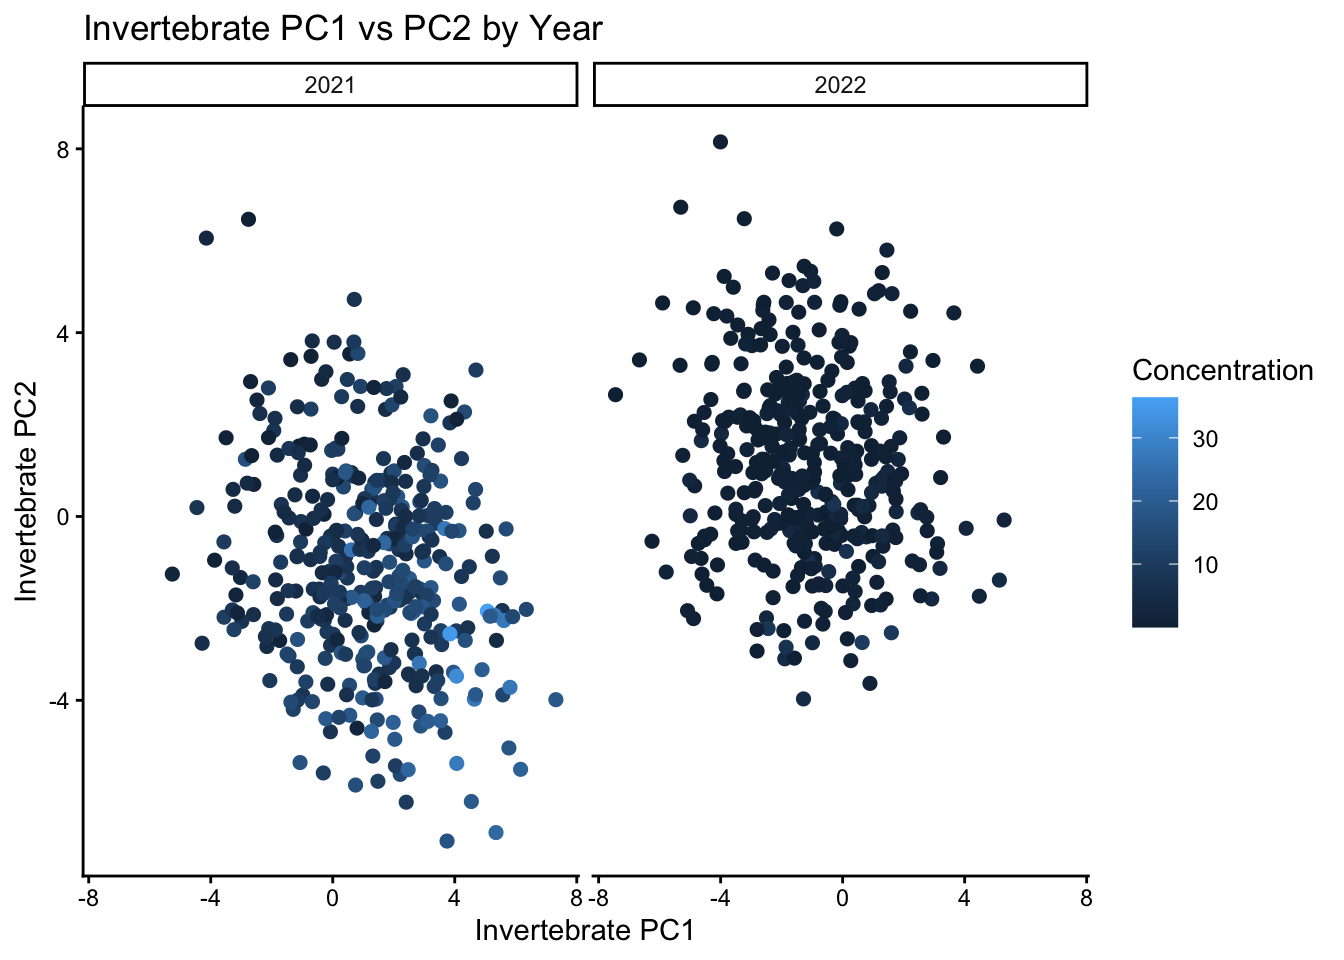
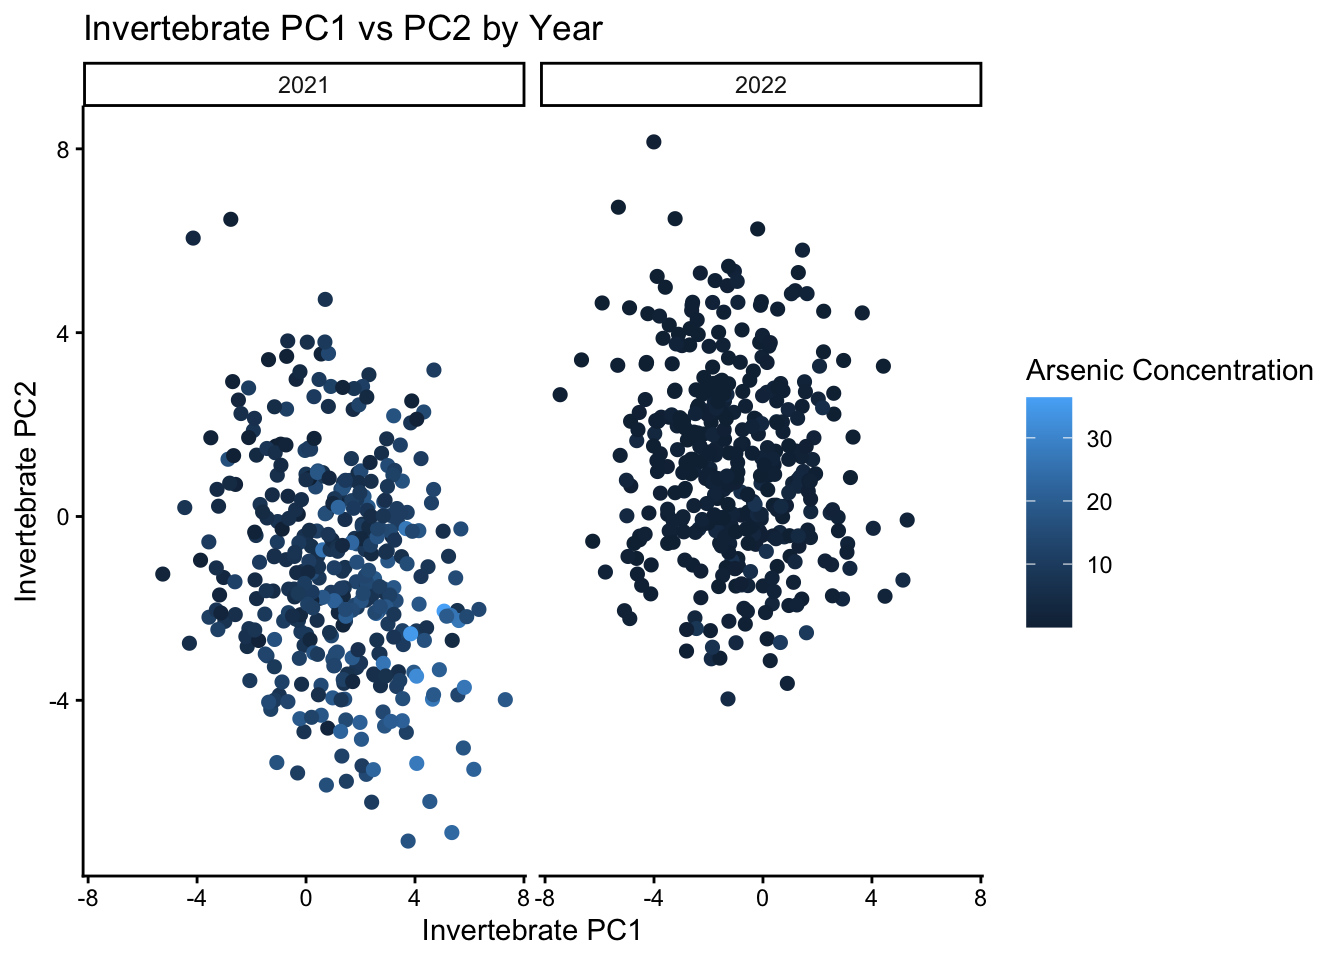
BIOL343_Week4/.DS_Store   BIOL343_Week4/.capture/errors.jsonl   BIOL343_Week4/.capture/events.jsonl  BIOL343_Week4/.capture/snaps/Group_3_CC3.Rmd.20261002-194455-d13f68.snap   BIOL343_Week4/.capture/snaps/Group_3_CC3.Rmd.20261002-194459-4cca44.snap  BIOL343_Week4/.capture/snaps/Group_3_CC3.Rmd.20261

diff --git a/BIOL343_Week4/Group_3_CC3.html b/BIOL343_Week4/Group_3_CC3.html
@@ -123,19 +123,17 @@ pre > code.sourceCode > span > a:first-child::before { text-decoration: underlin
 <section id="group-members" class="level2">
 <h2 class="anchored" data-anchor-id="group-members">Group Members</h2>
 <div class="cell">
-<div class="code-copy-outer-scaffold"><div class="sourceCode cell-code" id="cb1"><pre class="sourceCode r code-with-copy"><code class="sourceCode r"><span id="cb1-1"><a href="#cb1-1" aria-hidden="true" tabindex="-1"></a><span class="co"># Name - Queen's Student Number</span></span>
+<div class="code-copy-outer-scaffold"><div class="sourceCode cell-code" id="cb1"><pre class="sourceCode r code-with-copy"><code class="sourceCode r"><span id="cb1-1"><a href="#cb1-1" aria-hidden="true" tabindex="-1"></a><span class="co"># 1. Ziadie Diebel - 20463388</span></span>
 <span id="cb1-2"><a href="#cb1-2" aria-hidden="true" tabindex="-1"></a></span>
-<span id="cb1-3"><a href="#cb1-3" aria-hidden="true" tabindex="-1"></a><span class="co"># 1. Ziadie Diebel - 20463388</span></span>
+<span id="cb1-3"><a href="#cb1-3" aria-hidden="true" tabindex="-1"></a><span class="co"># 2. Name - Queen's Student Number</span></span>
 <span id="cb1-4"><a href="#cb1-4" aria-hidden="true" tabindex="-1"></a></span>
-<span id="cb1-5"><a href="#cb1-5" aria-hidden="true" tabindex="-1"></a><span class="co"># 2. Name - Queen's Student Number</span></span>
+<span id="cb1-5"><a href="#cb1-5" aria-hidden="true" tabindex="-1"></a><span class="co"># 3. Name - Queen's Student Number</span></span>
 <span id="cb1-6"><a href="#cb1-6" aria-hidden="true" tabindex="-1"></a></span>
-<span id="cb1-7"><a href="#cb1-7" aria-hidden="true" tabindex="-1"></a><span class="co"># 3. Name - Queen's Student Number</span></span>
+<span id="cb1-7"><a href="#cb1-7" aria-hidden="true" tabindex="-1"></a><span class="co"># 4. Name - Queen's Student Number</span></span>
 <span id="cb1-8"><a href="#cb1-8" aria-hidden="true" tabindex="-1"></a></span>
-<span id="cb1-9"><a href="#cb1-9" aria-hidden="true" tabindex="-1"></a><span class="co"># 4. Name - Queen's Student Number</span></span>
-<span id="cb1-10"><a href="#cb1-10" aria-hidden="true" tabindex="-1"></a></span>
-<span id="cb1-11"><a href="#cb1-11" aria-hidden="true" tabindex="-1"></a><span class="co"># 5. Name - Queen's Student Number</span></span></code></pre></div><button title="Copy to Clipboard" class="code-copy-button"><i class="bi"></i></button></div>
+<span id="cb1-9"><a href="#cb1-9" aria-hidden="true" tabindex="-1"></a><span class="co"># 5. Name - Queen's Student Number</span></span></code></pre></div><button title="Copy to Clipboard" class="code-copy-button"><i class="bi"></i></button></div>
 </div>
-<p><strong>Scenario chosen</strong> (hospital or lakes; see the instructions): Lakes Scenario</p>
+<p><strong>Scenario chosen</strong> (hospital or lakes; see the instructions): Lakes Scenario was chosen</p>
 </section>
 </section>
 <section id="do-this-first" class="level1 unnumbered">
@@ -213,7 +211,7 @@ date (1): Date
   ..   Date = col_date(format = ""),
   ..   Conc = col_double()
   .. )
- - attr(*, "problems")=&lt;pointer: 0x7a8f801a0&gt; </code></pre>
+ - attr(*, "problems")=&lt;pointer: 0x9c88515e0&gt; </code></pre>
 </div>
 <div class="code-copy-outer-scaffold"><div class="sourceCode cell-code" id="cb12"><pre class="sourceCode r code-with-copy"><code class="sourceCode r"><span id="cb12-1"><a href="#cb12-1" aria-hidden="true" tabindex="-1"></a><span class="fu">str</span>(data2)</span></code></pre></div><button title="Copy to Clipboard" class="code-copy-button"><i class="bi"></i></button></div>
 <div class="cell-output cell-output-stdout">
@@ -229,7 +227,7 @@ date (1): Date
   ..   PC1 = col_character(),
   ..   PC2 = col_character()
   .. )
- - attr(*, "problems")=&lt;pointer: 0x7a8f801f0&gt; </code></pre>
+ - attr(*, "problems")=&lt;pointer: 0x9c88515f0&gt; </code></pre>
 </div>
 <div class="code-copy-outer-scaffold"><div class="sourceCode cell-code" id="cb14"><pre class="sourceCode r code-with-copy"><code class="sourceCode r"><span id="cb14-1"><a href="#cb14-1" aria-hidden="true" tabindex="-1"></a><span class="fu">str</span>(data3)</span></code></pre></div><button title="Copy to Clipboard" class="code-copy-button"><i class="bi"></i></button></div>
 <div class="cell-output cell-output-stdout">
@@ -245,7 +243,7 @@ date (1): Date
   ..   PC1 = col_character(),
   ..   PC2 = col_character()
   .. )
- - attr(*, "problems")=&lt;pointer: 0x7a8f800e0&gt; </code></pre>
+ - attr(*, "problems")=&lt;pointer: 0x9c8851600&gt; </code></pre>
 </div>
 </div>
 <p><strong>Question 1:</strong> Which columns did R import as a type you did not expect, and what in the raw files caused it? (Look at the values in those columns.)</p>
@@ -326,7 +324,7 @@ Caused by warning:
 </div>
 </div>
 <p><strong>Question 2:</strong> What would have happened to these column names if you had joined <code>data2</code> and <code>data3</code> without renaming? (Try it in the Console if you are not sure.)</p>
-<p><strong>Answer:</strong> If the columns where not renamed before combining the data then they still would have been kept seperate and given extra labelling to the titles of each column in order to differentiate them (ex. would be labelled PC1.x vs PC1.y and PC2.x vs PC2.y to tell the two apart). This happens when “ID” is specficied as what infomation we would use to join the columns together. If nothing was specified for what to join the data sets by it is possible that PC1 &amp; PC2 from both data sets would try to be combined into one and result in errors.</p>
+<p><strong>Answer:</strong> If the columns where not renamed before combining the data then they still would have been kept seperate and given extra labelling to the titles of each column in order to differentiate them (e.g.&nbsp;they would be labelled PC1.x vs PC1.y and PC2.x vs PC2.y to tell the two apart). This happens when “ID” is specficied as what infomation we would use to join the columns together. If nothing was specified for what to join the data sets by it is possible that PC1 &amp; PC2 from both data sets would try to be combined into one and result in errors.</p>
 </section>
 <section id="make-sure-date-is-a-date" class="level2">
 <h2 class="anchored" data-anchor-id="make-sure-date-is-a-date">6. Make sure <code>Date</code> is a date</h2>
@@ -436,7 +434,7 @@ Caused by warning:
 </div>
 </div>
 <p><strong>Question 3:</strong> The four numbers differ. Explain which rows each verb keeps, and what that tells you about samples that are in one file but not the other.</p>
-<p><strong>Answer:</strong> inner_join() outputs 782 meaning it only keeps the 782 rows in both files and doesn’t include rows found only in data1 or only in data2. left_join() outputs 794 meaning it keeps only all the 794 rows from data1, meaning data1 has 12 more outputs that differ from data2 (794-788). right_join() outputs 788 meaning it keeps only all the 788 rows from data2, meaning data2 has 6 more putputs that differ from data1 (788-782). full_join() outputs 800 the highest number from all the ouputs as this function keeps everything from both data1 and data2 files (To check this the sum of the outputs shared between both data sets and the outputs only one data set has should sum to 800. e.g.&nbsp;782 + 12 + 6 = 800).</p>
+<p><strong>Answer:</strong> inner_join() outputs 782 meaning it only keeps the 782 rows in both files and doesn’t include rows found only in the data1 or only in the data2 file. left_join() outputs 794 meaning it keeps only all the 794 rows from data1, meaning data1 has 12 more rows that differ from data2 (794-788). right_join() outputs 788 meaning it keeps only all the 788 rows from data2, meaning data2 has 6 more rows that differ from data1 (788-782). full_join() outputs 800 the highest number from all the ouputs as this function keeps everything from both data1 and data2 files (To check this the sum of the rows shared between both data sets and the rows only one data set has should sum to 800. (e.g.&nbsp;782 + 12 + 6 = 800)).</p>
 </section>
 </section>
 <section id="part-3-dates-summaries-and-ordering" class="level1">
@@ -488,7 +486,7 @@ Caused by warning:
 </div>
 </div>
 <p><strong>Question 4:</strong> Does concentration differ between the two years? Answer in one or two sentences from the table.</p>
-<p><strong>Answer:</strong> Yes the concentration differs between the years 2021 and 2022. They appear to differ significantly given the mean for 2021 is 10.2 vs for 2022 which is 0.964. The standard deviation also supports this observations, for the year 2021 the sd is 6.14 and for 2022 it is 1.46. It is likely the year 2022 has more negative concentration values whereas the year 2021 likely has more positive concentrations. The below code also supports this predicition showing the 5 highest concentrations are all from the year 2021.</p>
+<p><strong>Answer:</strong> Yes the concentration differs between the years, with a mean of 10.2 (sd=6.14) for 2021 and a mean of 0.964 (sd = 1.46) for 2022. The 2021 data also shows much higher variability compared to the 2022 data.</p>
 </section>
 <section id="the-five-highest-concentrations" class="level2">
 <h2 class="anchored" data-anchor-id="the-five-highest-concentrations">11. The five highest concentrations</h2>
@@ -599,7 +597,7 @@ Caused by warning:
 </div>
 </div>
 <p><strong>Question 5:</strong> How many IDs have a higher concentration in the second year than in the first, and how many have <code>NA</code> for the change? Why are there NAs?</p>
-<p><strong>Answer:</strong> 19 IDs have a higher concentration in the second year than in the first. 6 IDs have NA for the change column. They are likely NAs because calculating the change requires a concentration value for both years for a given ID. If a cell is missing a value for one of the years or both subtracting the one year from the other will lead to the resulting NAs.</p>
+<p><strong>Answer:</strong> 19 IDs have a higher concentration in the second year than in the first. 6 IDs have NA for the change column. They are likely NAs because calculating the change requires a concentration value for both years for a given ID. If a cell is missing a value for one of the years or both subtracting the one year from the other will lead to the resulting NAs (e.g.&nbsp;6-NA = NA or NA-10 = NA or NA-NA = NA).</p>
 </section>
 </section>
 <section id="part-5-test-the-hypothesis-visually" class="level1">
@@ -618,7 +616,7 @@ Caused by warning:
 <span id="cb77-8"><a href="#cb77-8" aria-hidden="true" tabindex="-1"></a>        <span class="at">title =</span> <span class="st">"Invertebrate PC1 vs PC2 by Year"</span>, </span>
 <span id="cb77-9"><a href="#cb77-9" aria-hidden="true" tabindex="-1"></a>        <span class="at">x =</span> <span class="st">"Invertebrate PC1"</span>, </span>
 <span id="cb77-10"><a href="#cb77-10" aria-hidden="true" tabindex="-1"></a>        <span class="at">y =</span> <span class="st">"Invertebrate PC2"</span>, </span>
-<span id="cb77-11"><a href="#cb77-11" aria-hidden="true" tabindex="-1"></a>        <span class="at">colour =</span> <span class="st">"Concentration"</span></span>
+<span id="cb77-11"><a href="#cb77-11" aria-hidden="true" tabindex="-1"></a>        <span class="at">colour =</span> <span class="st">"Arsenic Concentration"</span></span>
 <span id="cb77-12"><a href="#cb77-12" aria-hidden="true" tabindex="-1"></a>    ) <span class="sc">+</span> </span>
 <span id="cb77-13"><a href="#cb77-13" aria-hidden="true" tabindex="-1"></a>    <span class="fu">theme_classic</span>()</span></code></pre></div><button title="Copy to Clipboard" class="code-copy-button"><i class="bi"></i></button></div>
 <div class="cell-output cell-output-stderr">
@@ -642,7 +640,7 @@ Caused by warning:
 <span id="cb79-8"><a href="#cb79-8" aria-hidden="true" tabindex="-1"></a>        <span class="at">title =</span> <span class="st">"Chemical PC1 vs PC2 by Year"</span>, </span>
 <span id="cb79-9"><a href="#cb79-9" aria-hidden="true" tabindex="-1"></a>        <span class="at">x =</span> <span class="st">"Chemical PC1"</span>, </span>
 <span id="cb79-10"><a href="#cb79-10" aria-hidden="true" tabindex="-1"></a>        <span class="at">y =</span> <span class="st">"Chemical PC2"</span>,</span>
-<span id="cb79-11"><a href="#cb79-11" aria-hidden="true" tabindex="-1"></a>        <span class="at">colour =</span> <span class="st">"Concentration"</span></span>
+<span id="cb79-11"><a href="#cb79-11" aria-hidden="true" tabindex="-1"></a>        <span class="at">colour =</span> <span class="st">"Arsenic Concentration"</span></span>
 <span id="cb79-12"><a href="#cb79-12" aria-hidden="true" tabindex="-1"></a>    ) <span class="sc">+</span> </span>
 <span id="cb79-13"><a href="#cb79-13" aria-hidden="true" tabindex="-1"></a>    <span class="fu">theme_classic</span>()</span></code></pre></div><button title="Copy to Clipboard" class="code-copy-button"><i class="bi"></i></button></div>
 <div class="cell-output cell-output-stderr">
@@ -658,11 +656,14 @@ Caused by warning:
 </div>
 </div>
 <p><strong>Question 6:</strong> What do the data say about the hypothesis in your scenario (patients with similar viral loads have similar gut microbes and urine metabolites, or lakes with similar arsenic levels have similar invertebrate communities and water chemistry)? Answer in a short paragraph from visual inspection of your figures. For now, assume that any strong pattern is statistically robust; later we will learn to test this with models.</p>
-<p><strong>Answer:</strong> Looking at the figures created it appears that the data does not support the hypothesis. If lakes with similar arsenic levels had similar chemical/ biological communities, we would expect to see distinct colour clustering or a smooth gradient across the PC space (e.g., higher concentration points grouping together on one side and lower concentrations on the other).</p>
-<p>Instead, the points representing different concentration values (colours ranging from dark to light blue) are throughly mixed and randomly scattered throughout both the 2021 and 2022 panels. This indicates that chemical/ biological communities across PC1 and PC2 varies independetly (not dependent on arsenic concentrations).</p>
+<p><strong>Answer:</strong> Looking at the figures created it appears that the data does mainly support the hypothesis (mainly focusing on 2021 that provided more of a range and easily identifiable differences in concentration levels). If lakes with similar arsenic levels had similar invertebrate communities and water chemistry, we would expect to see distinct colour clustering or a smooth gradient across the graph (e.g., higher concentration points grouping together on one side and lower concentrations on the other, going from light blue to dark blue or the other way around). When looking at the graphs dark blue points representing low concentrations and light blue points representing high concentrations seem to be seperated going from darker to lighter or the inverse. We mainly see this pattern for 2021 and for 2022 the concentration appears to be the almost the exact same throughout.</p>
+<p>2021 Invertebrate Plot: High arsenic concentrations appear more frequently in the right bottom side of the graph where PC1 values are higher (in the positive range) and PC2 values are lower (in the negative range). Low arsenic concentrations appear more frequently in the left top side of the graph where PC1 values are lower (in the neative range) and PC2 values are higher (in the positive range). The gradient appears to move from bottom right to top left of the graph (moving from high to low concentrations, light to dark blue).</p>
+<p>2022 Invertebrate Plot: A significant change compared to the concentrations in 2021 can be observed when looking at the two plots. The majority of the points appear to cluster in the middle of the graph and seem to all be around the same colour gradient representing low arsenic concentrations. This shows that the arsenic concentration levels have decreased since 2021.</p>
+<p>2021 Chemical Plot: High arsenic concentrations appear more frequently in the left top side of the graph where PC1 values are lower (in the negative range) and PC2 values are higher (in the positive range). Low arsenic concetrations appear more frequently in the right bottom side of the grapg where PC1 values are higher (in the positive range) and PC2 values are lower (in the negative range). The gradienti appear to move from the top left to the bottom right of the graph (moving from high to low concentrations, light to dark blue)</p>
+<p>2022 Chemical Plot: A significant change compared to the concentrations in 2021 can be observed when looking the the two plots. The majority of the points appear to cluster in the middle of the graph with the exception of the few outliers. The points in 2022 also all appear to be around the same colour (dark blue) meaning they are all about the same concentration (low). This shows that the arsenic concetration levels have decreased significantly since 2021.</p>
 <p><strong>Question 7:</strong> Read the scenario you did not choose. What, if anything, would you have done differently in the code? What does this tell you about coding as a transferable skill?</p>
-<p><strong>Answer:</strong> Reading the hospital scenario things I would have changed in the code are the naming for PC1 &amp; PC2 from both data2 and data3 as they represent different values/ components for the hospital scenario. Overall though these 2 different scenarios show how easily transferable coding can be. One code that you used for a certain experiement might be easily able to be used for another similar experiment.</p>
-<p>For example, you are measuring concentration of water vs salinity in marine organisms. This process might be similar enough to running the same with mammals and might also be measured using the exact same components.Therefore you might be able to use the one methods code and transfer it into the same experiment run on mammals. This type of coding helps save time if you can atleast take the skeleton of a code similar to what you need and then specify it to your specific case.</p>
+<p><strong>Answer:</strong> Reading the hospital scenario some things I would have changed in the code are the naming for PC1 &amp; PC2 from both data2 and data3 as they represent different values/ components for the hospital scenario. As well as the labelling for the graphs and anything else to represent that situation. Overall though these 2 different scenarios show how easily transferable coding can be. One code that you used for a certain experiment might be easily able to be used for another similar experiment.</p>
+<p>For example, you are measuring concentrations of water vs salinity in marine organisms. This process might be similar enough to running the same with mammals and might also be measured using the exact same components. Therefore you might be able to use the one methods code and transfer it into the same experiment run on mammals. This type of coding helps save time if you can at least use the skeleton of a code similar to what you need and then specify it to your specific experiment.</p>
 </section>
 </section>
 <section id="do-this-last" class="level1 unnumbered">
